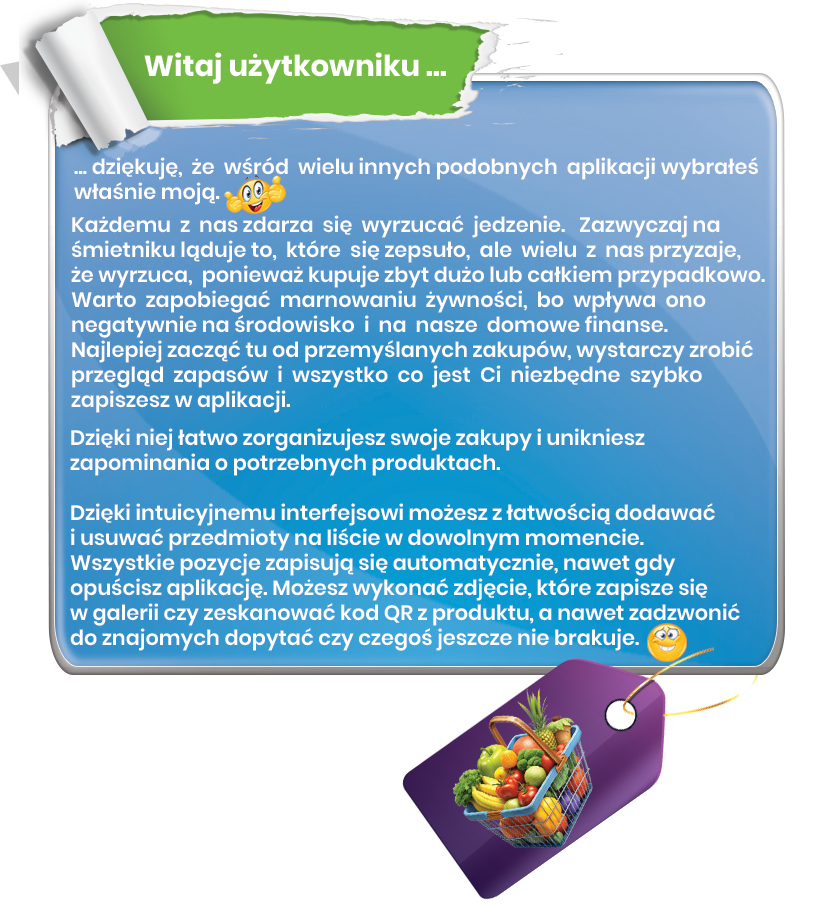
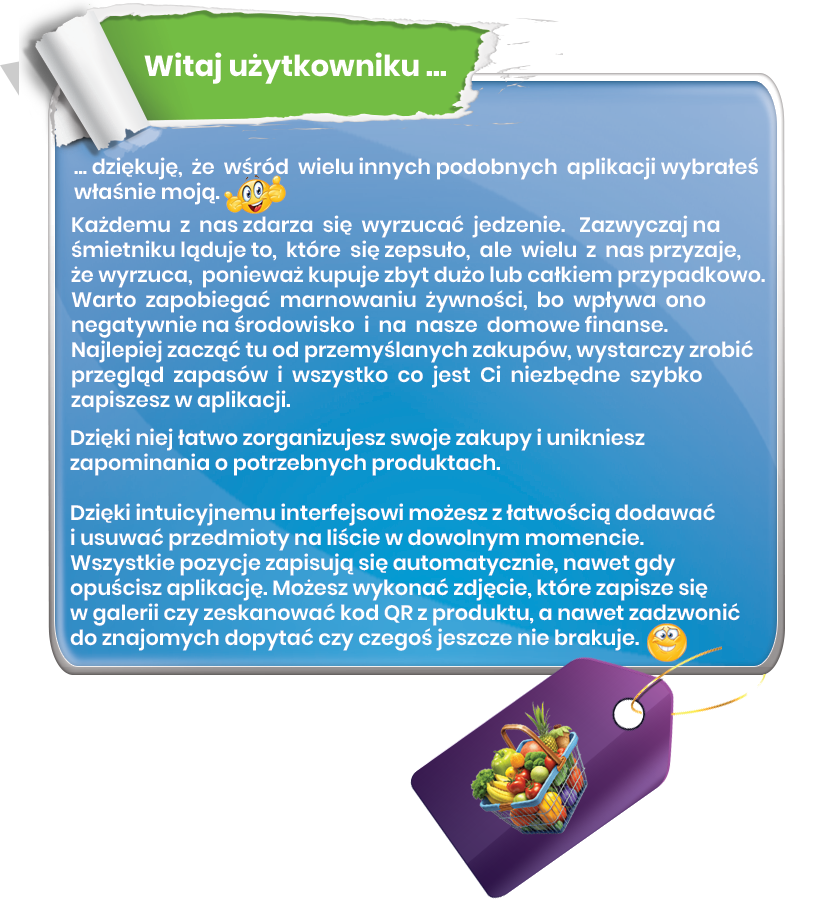
Add files via upload

diff --git a/info.html b/info.html
@@ -3,24 +3,13 @@
 	<html lang="pl-PL">
 	<html xmlns="http://www.w3.org/1999/xhtml">
 	<meta http-equiv="content-type" content="text/html; charset=utf-8"/>
-	<body style="background-color: #55A961; color: black">
+	<body style="background-color: #55a961; color: black">
 	<font face="Verdana" size="3" color="black";>
 	<p style="text-align: center;">
 	<body background="tlo_serwer.png">
 	<img src="logo.png" width="100%" height="auto" alt=""><BR><BR>
-	
-	
-	
-	
-	
-	
 	<img src="info1.png" width="100%" height="auto" border="0"><BR>
-
-
-
-
-
-	<BR><BR><BR><BR><BR><BR><BR><BR><BR><BR><BR><BR><BR><BR><BR><BR><BR><BR><BR><BR><BR>
+	<img src="info2.png" width="100%" height="auto" border="0"><BR>
 
 </body>
 </html>